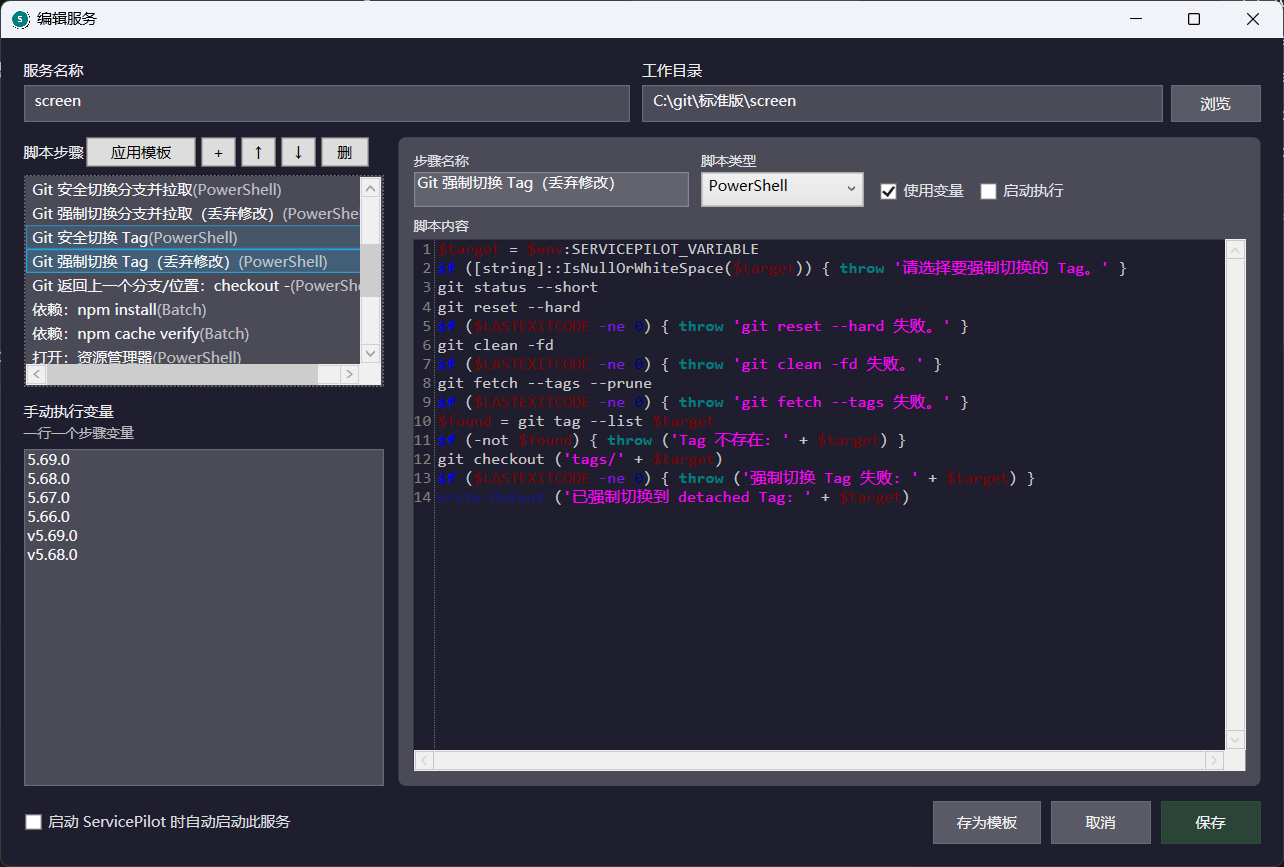
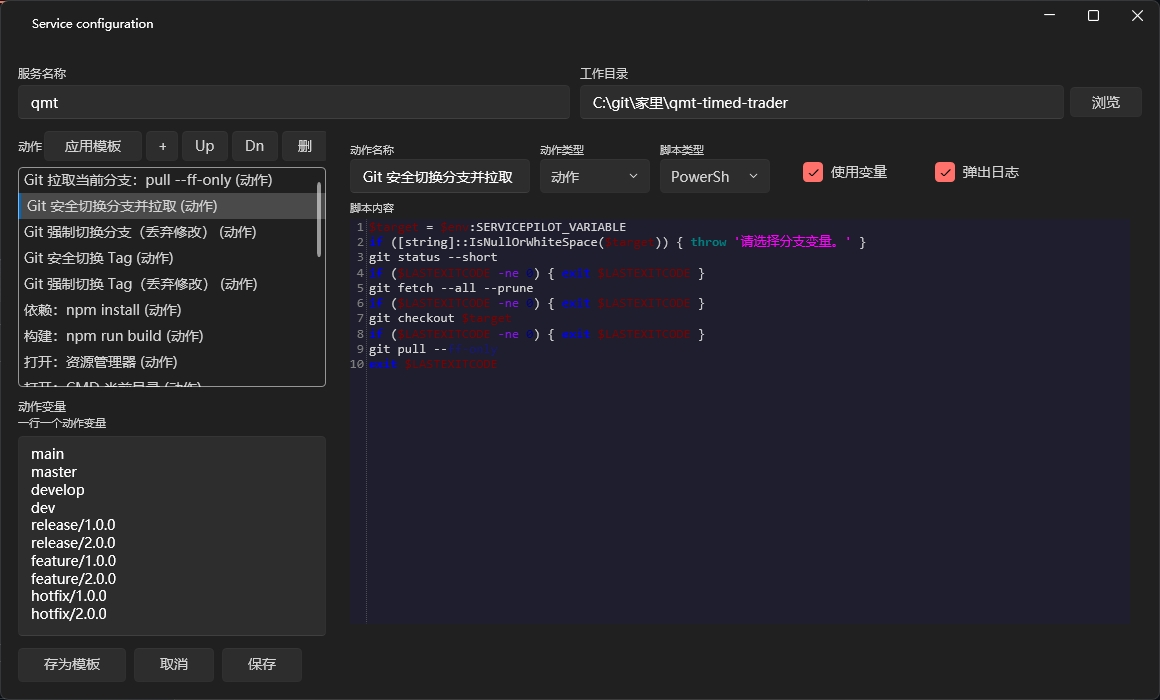
docs: 更新 v3.0.0 截图、README FluentWindow 描述及发布文档
- 替换三张主截图（托盘菜单、服务编辑、日志窗口）为 FluentWindow 新界面截图
- README/README-en: 新增 Version badge，首段引入 v3.0.0 FluentWindow 全面升级说明，核心能力新增 FluentWindow 现代界面条目
- docs/release-notes-v3.0.0: 语言间链接改为绝对 URL，移除发布前检查清单（已发布）
- docs/repository-profile: 同步 v3.0.0 FluentWindow 对外描述建议

所有说明文本和代码引用均经敏感信息扫描，无本地路径、Token、密钥泄漏

diff --git a/docs/release-notes-v3.0.0-en.md b/docs/release-notes-v3.0.0-en.md
@@ -1,4 +1,4 @@
-Chinese release notes: [release-notes-v3.0.0.md](release-notes-v3.0.0.md) | English: this file
+Chinese release notes: [release-notes-v3.0.0.md](https://github.com/xiayukun/ServicePilot/blob/main/docs/release-notes-v3.0.0.md) | English: this file
 
 ServicePilot 3.0.0 brings a **FluentWindow modern UI overhaul**: all management windows migrated to WPF-UI FluentWindow with TitleBar, system accent color selection effects, and unified dark theme.
 
@@ -24,12 +24,3 @@ ServicePilot 3.0.0 brings a **FluentWindow modern UI overhaul**: all management 
 
 - ServicePilot executes user-configured local scripts. AI help content includes the local exe path and should only be sent to trusted personal AI assistants, not posted publicly.
 - For automated testing, set `SERVICEPILOT_CONFIG_DIR` to avoid modifying the real `%APPDATA%\ServicePilot` configuration.
-
-## Pre-release Checklist
-
-- [ ] `dotnet build ServicePilot.sln`
-- [ ] `ServicePilot.exe ai-help` and `ServicePilot.exe doctor --json` pass
-- [ ] All windows display FluentWindow TitleBar correctly
-- [ ] Tray menu hover shows system accent color highlight
-- [ ] GitHub Release uploads `ServicePilot.exe`
-- [ ] Screenshots updated (main image, service editor, log window)

diff --git a/docs/repository-profile-en.md b/docs/repository-profile-en.md
@@ -10,16 +10,16 @@ ServicePilot
 
 ## GitHub Description
 
-Recommended:
+Recommended (v3.0.0 update - highlight FluentWindow modern UI):
 
 ```text
-ServicePilot | AI-friendly Windows tray service manager / 本地开发服务启动器 with FluentWindow UI: manage npm, Vite, dotnet, Python, PowerShell scripts with GUI + CLI.
+ServicePilot | AI-friendly Windows tray service manager with FluentWindow modern UI / 本地开发服务启动器：manage npm, Vite, dotnet, Python, PowerShell scripts with GUI + CLI.
 ```
 
 Shorter:
 
 ```text
-AI-friendly Windows tray service manager / 本地开发服务启动器 for npm, Vite, dotnet, Python, PowerShell.
+AI-friendly tray service manager with FluentWindow modern UI for npm, Vite, dotnet, Python, PowerShell.
 ```
 
 ## Homepage
@@ -84,8 +84,9 @@ process tree cleanup
 Job Object
 ```
 
-## README Above-The-Fold Points
+## README Above-The-Fold Points (v3.0.0 update)
 
+- v3.0.0 brings a FluentWindow UI overhaul: all management windows modernized with TitleBar, system accent color effects, and unified dark theme.
 - After download and launch, users can copy `Copy help for AI` from the tray context menu so agents get the current absolute `ServicePilot.exe` path and first inspection commands.
 - AI agents can start with `ServicePilot.exe ai-help`, `ServicePilot.exe doctor --json`, and JSON status, then safely create personalized services, templates, actions, and variables.
 - The tray number shows active service count and stays visible in the notification area.

diff --git a/docs/repository-profile.md b/docs/repository-profile.md
@@ -10,16 +10,16 @@ ServicePilot
 
 ## GitHub Description
 
-推荐 GitHub About 描述：
+推荐 GitHub About 描述（v3.0.0 更新 - 突出 FluentWindow 现代界面）：
 
 ```text
-ServicePilot | AI-friendly Windows tray service manager / 本地开发服务启动器 with FluentWindow UI: manage npm, Vite, dotnet, Python, PowerShell scripts with GUI + CLI.
+ServicePilot | AI-friendly Windows tray service manager with FluentWindow modern UI / 本地开发服务启动器：manage npm, Vite, dotnet, Python, PowerShell scripts with GUI + CLI.
 ```
 
 如果 GitHub description 需要更短：
 
 ```text
-AI-friendly Windows tray service manager / 本地开发服务启动器 for npm, Vite, dotnet, Python, PowerShell.
+AI-friendly tray service manager with FluentWindow modern UI for npm, Vite, dotnet, Python, PowerShell.
 ```
 
 ## Homepage
@@ -84,8 +84,9 @@ process tree cleanup
 Job Object
 ```
 
-## README 首屏卖点
+## README 首屏卖点 (v3.0.0 更新)
 
+- v3.0.0 全面升级为 WPF-UI FluentWindow 现代界面：所有管理窗口带 TitleBar 标题栏、系统主题色选中效果和统一深色主题。
 - 下载并启动后，用户可以从托盘右键菜单复制 `复制给 AI 的帮助`，让 AI 直接拿到当前 `ServicePilot.exe` 绝对路径和首批检查命令。
 - AI 可以先读 `ServicePilot.exe ai-help`、`ServicePilot.exe doctor --json` 和 JSON 状态，再安全创建个性化服务、模板、动作和变量。
 - 托盘数字就是当前活跃服务数，适合长期挂在任务栏。

diff --git a/README-en.md b/README-en.md
@@ -5,8 +5,9 @@
 ![Platform](https://img.shields.io/badge/platform-Windows-blue)
 ![.NET](https://img.shields.io/badge/.NET-8.0-512BD4)
 ![License](https://img.shields.io/badge/license-MIT-green)
+![Version](https://img.shields.io/github/v/release/xiayukun/ServicePilot?color=blue)
 
-ServicePilot is a **tray-first, AI-friendly Windows launcher for local development services with a modern FluentWindow UI**. It starts, monitors, and stops local dev services from the Windows tray and CLI, bringing frontend apps, backend services, script actions, environment switching, and logs into one tray menu so humans and AI agents can reliably control npm, dotnet, Python, and custom scripts.
+ServicePilot is a **tray-first, AI-friendly Windows launcher for local development services with a modern FluentWindow UI**. v3.0.0 brings a complete FluentWindow UI overhaul: all management windows migrated to WPF-UI FluentWindow with TitleBar, system accent color selection effects, and unified dark theme.
 
 **Recommended AI handoff:** after downloading and launching ServicePilot, right-click the tray number and choose `Copy help for AI`. Your AI can then inspect real state with `ai-help`, `doctor --json`, `list --json`, and `status all --json`, then help create personalized services, templates, actions, and variables. Anything the command line can do can become a ServicePilot action: switch API URLs, pull a branch, install dependencies, or open an IDE. ServicePilot includes a built-in "Default developer actions" template, and AI agents can generate project-specific services and templates directly.
 
@@ -34,6 +35,7 @@ ServicePilot is a **tray-first, AI-friendly Windows launcher for local developme
 ## Core Features
 
 - **Tray-first UI**: no extra desktop panel; the notification-area number is the main entry point.
+- **FluentWindow modern UI**: v3.0.0 introduces FluentWindow across all management windows — TitleBar, system accent color selection effects, and unified dark theme.
 - **Multi-action services**: Batch, PowerShell, Python, and Node.js actions in one service.
 - **Actions and composites**: run single script actions or ordered composite actions.
 - **Variable switching**: choose action variables when starting, restarting, or running an action.

diff --git a/README.md b/README.md
@@ -5,8 +5,9 @@
 ![Platform](https://img.shields.io/badge/platform-Windows-blue)
 ![.NET](https://img.shields.io/badge/.NET-8.0-512BD4)
 ![License](https://img.shields.io/badge/license-MIT-green)
+![Version](https://img.shields.io/github/v/release/xiayukun/ServicePilot?color=blue)
 
-ServicePilot 是一个 **托盘优先、AI 友好、FluentWindow 现代界面的 Windows 本地开发服务启动器**。它从托盘和 CLI 启动、监控、停止本地开发服务，把前端、后端、脚本动作、环境变量和日志收进一个托盘菜单，让人和 AI 都能可靠操作 npm、dotnet、Python 和自定义脚本。
+ServicePilot 是一个 **托盘优先、AI 友好、FluentWindow 现代界面的 Windows 本地开发服务启动器**。v3.0.0 带来所有管理窗口全面升级为 WPF-UI FluentWindow 现代界面，支持 TitleBar 标题栏、系统主题色选中效果和统一深色主题。它从托盘和 CLI 启动、监控、停止本地开发服务，把前端、后端、脚本动作、环境变量和日志收进一个托盘菜单，让人和 AI 都能可靠操作 npm、dotnet、Python 和自定义脚本。
 
 **交给 AI 的推荐方式：** 下载并启动 ServicePilot 后，在托盘数字图标上右键选择 `复制给 AI 的帮助`。AI 就能先用 `ai-help`、`doctor --json`、`list --json`、`status all --json` 读取真实状态，再帮你新增个性化服务、模板、动作和变量。只要命令行能做，就可以包装成 ServicePilot 动作：切换 API 地址、拉取分支、安装依赖、打开 IDE。ServicePilot 内置了“默认开发动作模板”，也推荐让 AI 直接生成适合当前项目的服务和模板。
 
@@ -34,6 +35,7 @@ ServicePilot 是一个 **托盘优先、AI 友好、FluentWindow 现代界面的
 ## 核心能力
 
 - **托盘优先**：无额外桌面面板，任务栏通知区域数字就是主入口。
+- **FluentWindow 现代界面**：v3.0.0 全面升级，所有管理窗口使用 WPF-UI FluentWindow，带 TitleBar 标题栏、系统主题色选中效果和统一深色主题。
 - **多动作服务**：一个服务可包含 Batch、PowerShell、Python、Node.js 动作。
 - **动作与组合动作**：可以单独运行脚本动作，也可以把多个动作编排成组合动作。
 - **变量切换**：启动、重启、执行动作时可选择不同预设变量。